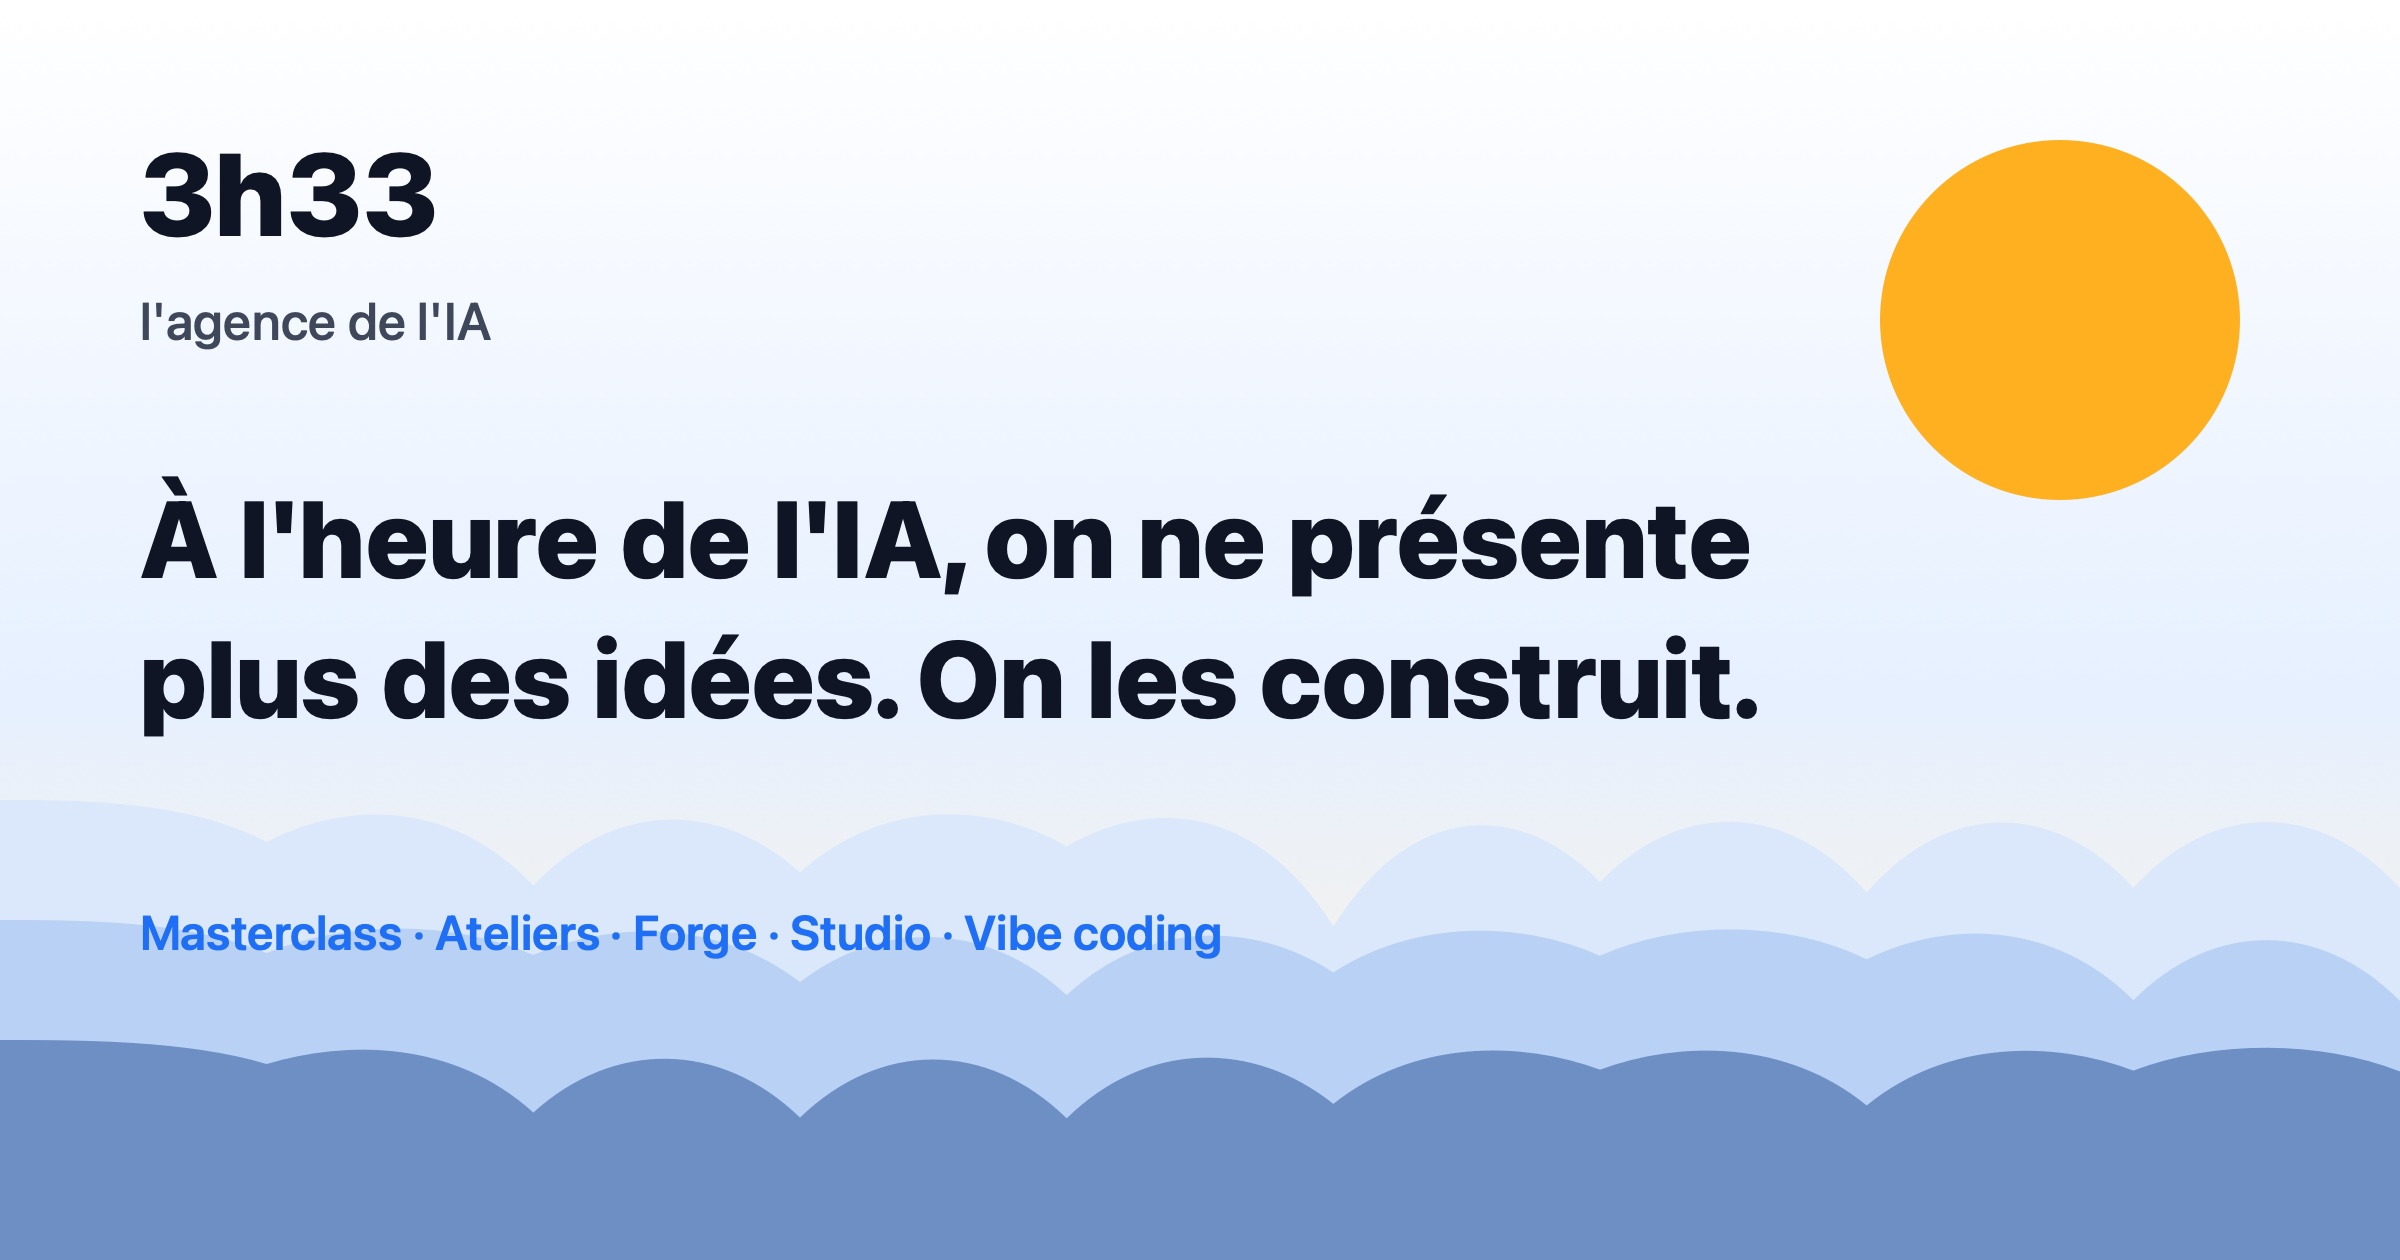
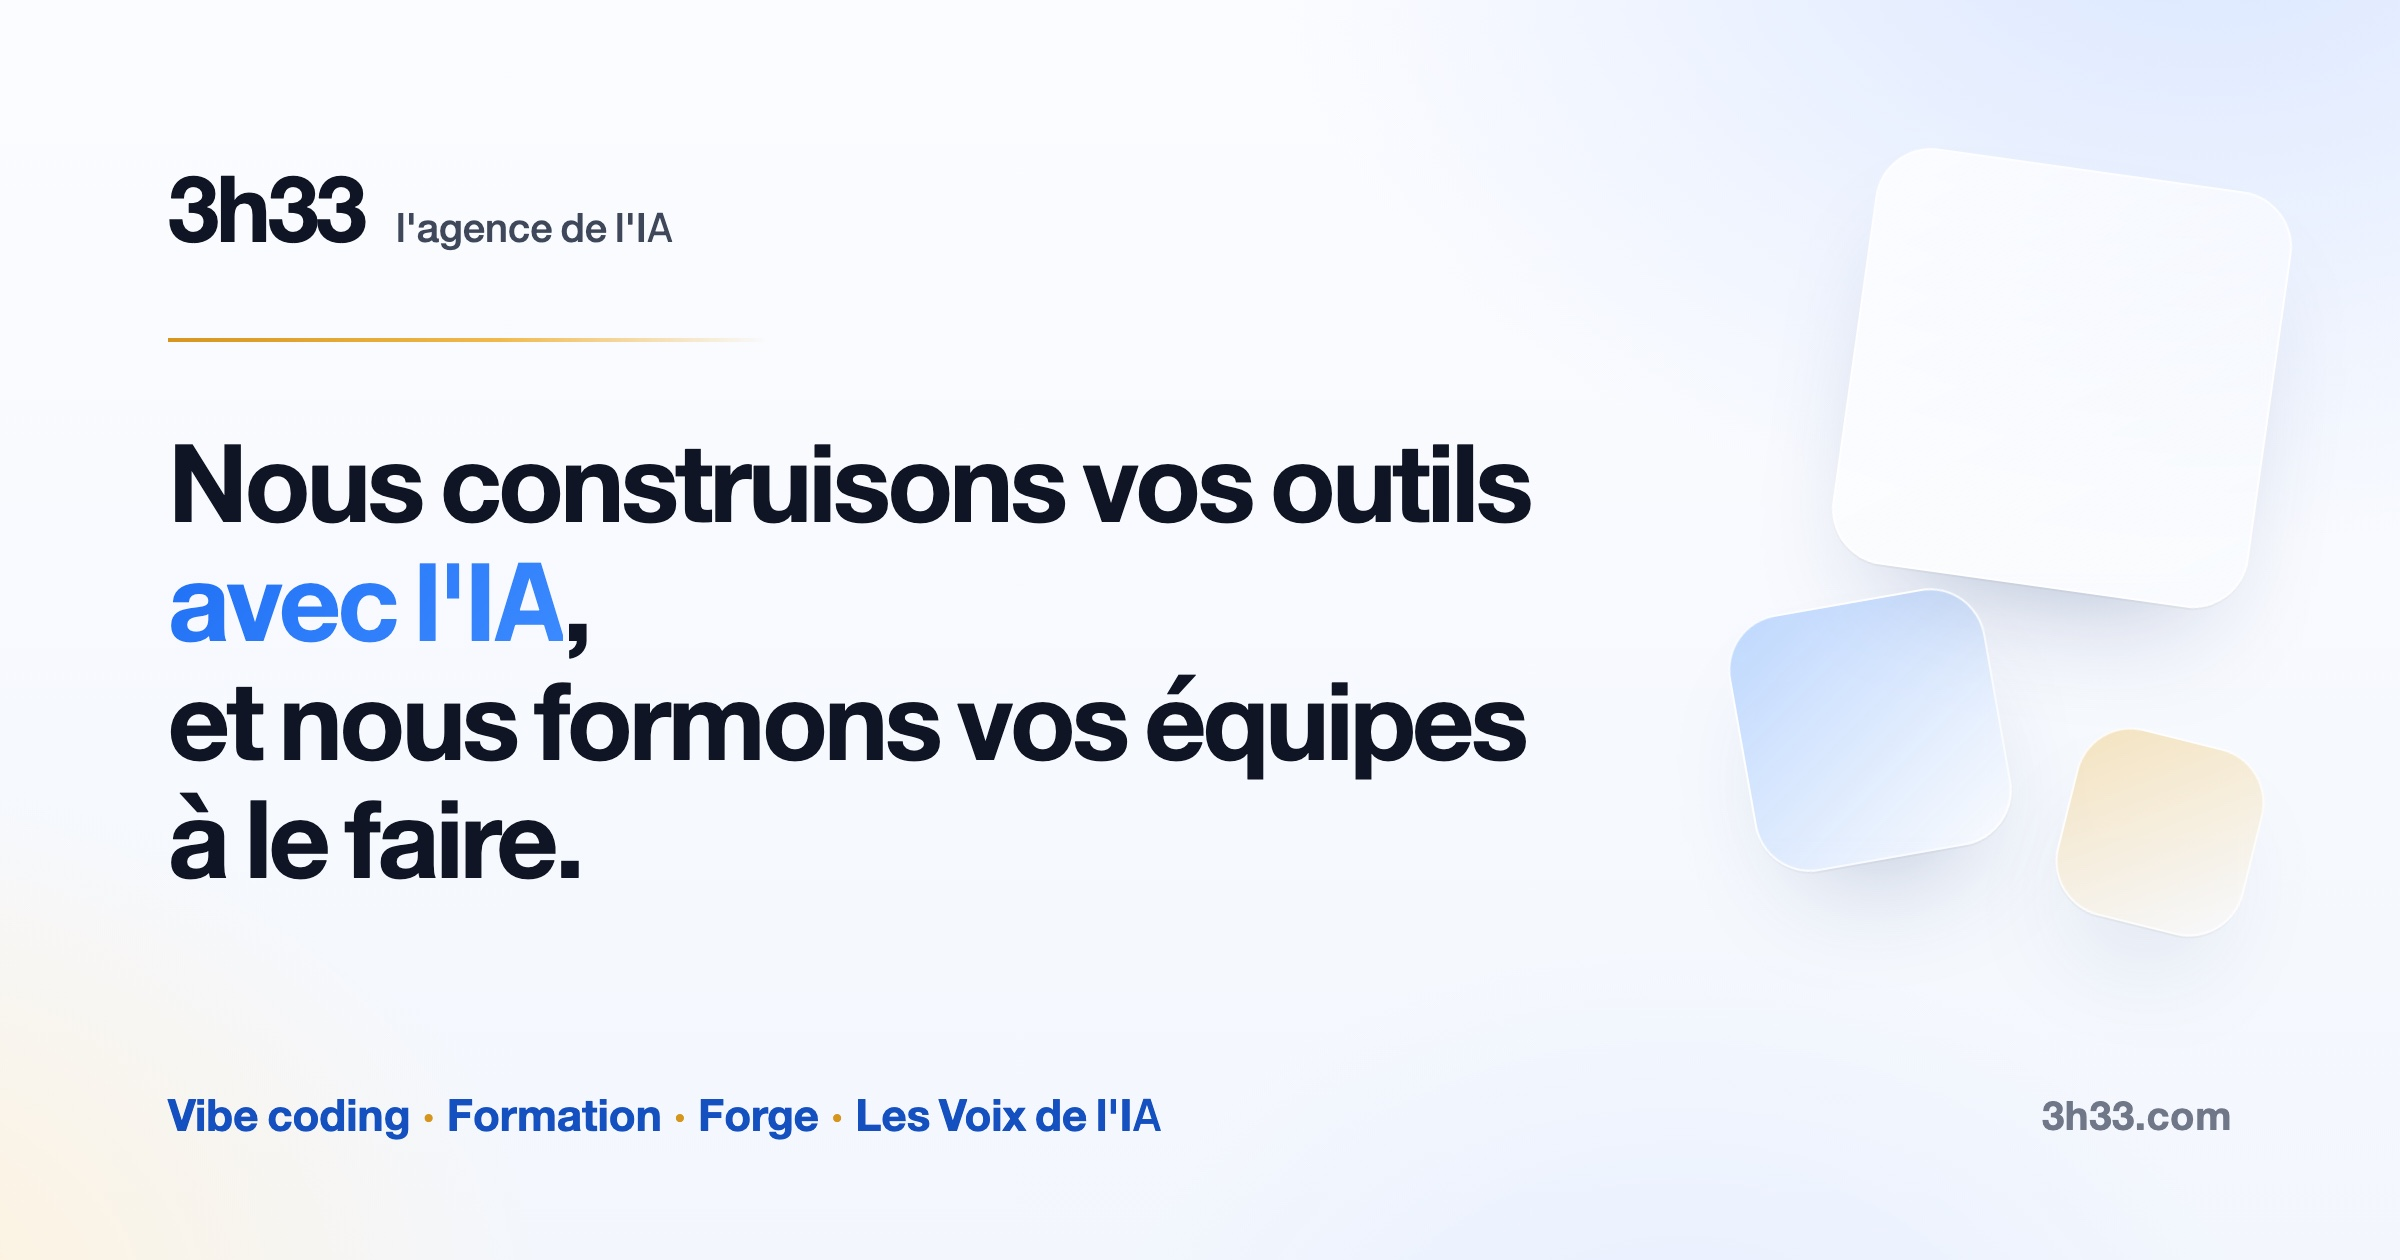
Image de partage générale refaite dans le style de la nouvelle accueil (sans soleil ni vagues)
Fond blanc bleuté à halos, tuiles de verre, filet d'or, Manrope, et les deux
promesses de l'accueil. Source HTML dans docs/design/partage-source.html (rendu
Chrome sans interface, 1200 × 630 à l'échelle 2).

diff --git a/docs/design/partage-source.html b/docs/design/partage-source.html
@@ -1,0 +1,43 @@
+<!doctype html>
+<html lang="fr"><head><meta charset="utf-8">
+<style>@font-face{font-family:'Manrope';font-weight:200 800;src:url(file:///Users/as/Developer/3h33-site/site/polices/xn7gYHE41ni1AdIRggmxSvfedN62Zw.woff2) format('woff2')}</style>
+<style>
+*{margin:0;padding:0;box-sizing:border-box}
+html,body{width:1200px;height:630px;overflow:hidden}
+body{font-family:"Manrope","Helvetica Neue",Arial,sans-serif;color:#0f1524;position:relative;
+  background:
+    radial-gradient(760px 520px at 92% -8%,#dbe7ff 0,transparent 62%),
+    radial-gradient(620px 460px at -8% 105%,#fff1d8 0,transparent 60%),
+    radial-gradient(520px 420px at 70% 115%,#e6eeff 0,transparent 60%),
+    linear-gradient(180deg,#fbfcff,#f3f7fd)}
+.tuile{position:absolute;border-radius:28px;border:1px solid rgba(255,255,255,.9);
+  background:linear-gradient(145deg,rgba(255,255,255,.8),rgba(255,255,255,.25));
+  box-shadow:0 1px 0 rgba(15,21,36,.04),0 30px 60px -30px rgba(31,60,120,.35);backdrop-filter:blur(8px)}
+.t1{width:210px;height:210px;right:64px;top:84px;transform:rotate(8deg)}
+.t2{width:130px;height:130px;right:200px;top:300px;transform:rotate(-10deg);
+  background:linear-gradient(145deg,rgba(61,139,255,.30),rgba(255,255,255,.35))}
+.t3{width:96px;height:96px;right:72px;top:368px;transform:rotate(14deg);
+  background:linear-gradient(145deg,rgba(240,185,74,.35),rgba(255,255,255,.35))}
+.contenu{position:absolute;left:84px;top:72px;right:84px}
+.marque{display:flex;align-items:baseline;gap:16px}
+.logo{font-weight:800;font-size:46px;letter-spacing:-1.5px}
+.agence{font-size:20px;color:#3f475a;font-weight:500}
+.filet{width:300px;height:2px;margin:34px 0 40px;background:linear-gradient(90deg,#d6961e,#f0b94a 55%,transparent)}
+h1{font-weight:800;font-size:54px;line-height:1.1;letter-spacing:-1.8px;max-width:700px}
+h1 em{font-style:normal;background:linear-gradient(135deg,#1f6ff5,#3d8bff);-webkit-background-clip:text;color:transparent}
+.bas{position:absolute;left:84px;right:84px;bottom:58px;display:flex;justify-content:space-between;align-items:center}
+.offres{font-size:22px;font-weight:600;color:#1550c0}
+.offres span{color:#d6961e;padding:0 6px}
+.url{font-size:20px;font-weight:600;color:#6f7789;letter-spacing:.3px}
+</style></head><body>
+<div class="tuile t1"></div><div class="tuile t2"></div><div class="tuile t3"></div>
+<div class="contenu">
+  <div class="marque"><div class="logo">3h33</div><div class="agence">l'agence de l'IA</div></div>
+  <div class="filet"></div>
+  <h1>Nous construisons vos outils <em>avec l'IA</em>,<br>et nous formons vos équipes à le faire.</h1>
+</div>
+<div class="bas">
+  <div class="offres">Vibe coding<span>·</span>Formation<span>·</span>Forge<span>·</span>Les Voix de l'IA</div>
+  <div class="url">3h33.com</div>
+</div>
+</body></html>
